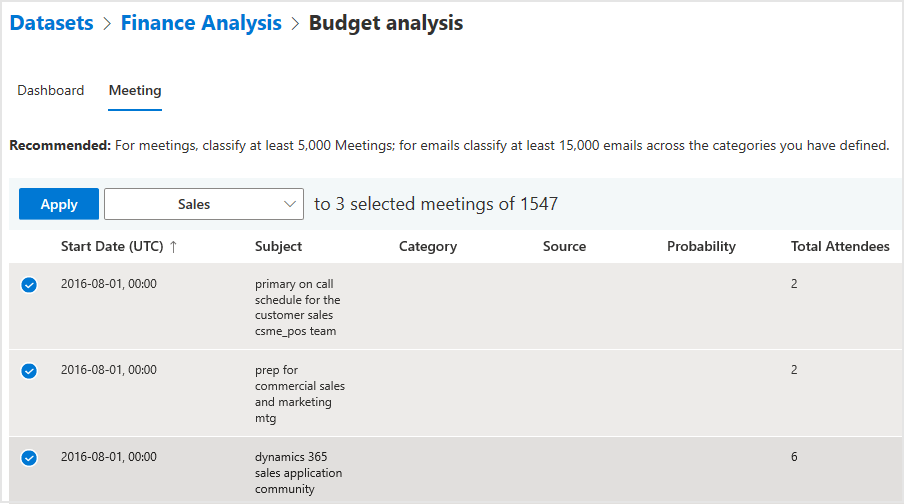
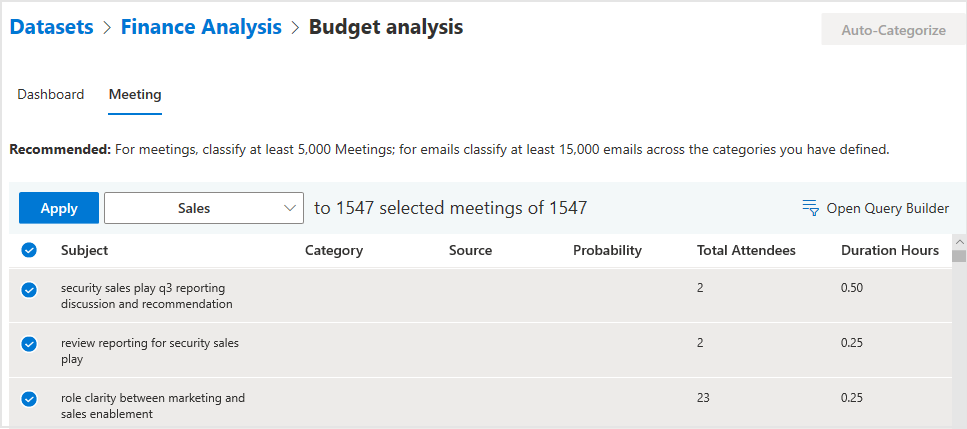
PEXP edits
for UX changes

diff --git a/WorkplaceAnalytics/azure-templates/process-explorer.md b/WorkplaceAnalytics/azure-templates/process-explorer.md
@@ -85,7 +85,7 @@ After you categorize a good sample of meetings into the specified categories, yo
 
 6. After the data is queried, close the query builder pane to see the meeting list, and then to help train the model for auto-categorization of the whole dataset:
 
-   * Select a category, select all meetings in the list by selecting the check box next to **Start Date**, and then select **Apply** to add these meetings to that category.
+   * Select a category, select all meetings in the list by selecting the check box next to **Subject**, and then select **Apply** to add these meetings to that category.
    * Or select a category, individually select the check box next to a good sample of related meetings, and then select **Apply** to add them to that category.
 
       ![Assign a category to an uncategorized meeting](./images/pexp-categorize.png)
